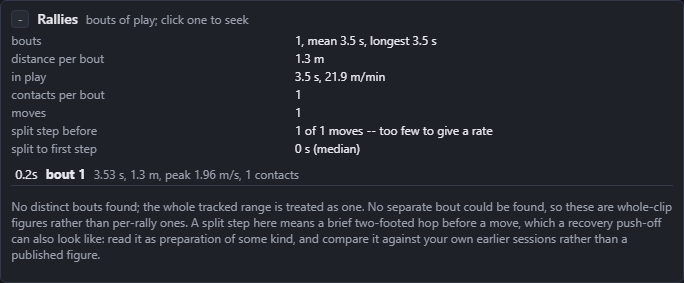
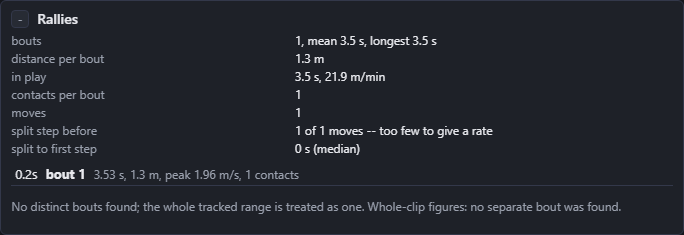
Show the numbers, and put the sentences that explain them behind one switch
The user's verdict after the first hands-on session was that there is far too
much text: every panel carried a subtitle, most carried a paragraph under it,
the Next line ran to two sentences and the review help to two more. They want
the numbers.

Deleting the prose was not available, because a good deal of it is the app
saying what it will not measure, and that is the rule the whole thing rests
on. So the sentences were sorted rather than cut. What a measurement refuses
to say stays on the page always, shortened to one line: "Work-to-rest
withheld: the clip is already cut to the play", "No shot named: a name needs
the shuttle", "Not measured: ...". What merely explains how a number was
reached now carries the class explain, sits on its element's title so a hover
answers one question, and is hidden until the What this means button in the
header turns the lot on. One switch and not one per panel, because a reader
who wants the explanations wants them everywhere.

Eleven panel subtitles, the Match, Rallies, Strokes, Tactics, Formation and
Over time paragraphs and both review help lines went through that sort. The
Next line keeps one clause and hands its reason to the same switch and to the
hover, so it still says why when asked.

The screenshots are rebuilt because the panels really did change.

diff --git a/src/mikiri/server/static/app.js b/src/mikiri/server/static/app.js
@@ -726,6 +726,19 @@ function renderAll() {
   renderSideTabs(); renderNextStep();
 }
 
+// ------------------------------------------------------------ explanations
+
+// One switch for every sentence that explains a number rather than stating
+// it. Off by default: the user asked for the numbers, not the prose. What a
+// measurement refuses to say is not an explanation and never hides.
+function setExplain(on) {
+  document.body.classList.toggle('show-explain', on);
+  const b = $('#explain-btn');
+  b.setAttribute('aria-pressed', on ? 'true' : 'false');
+  b.title = on ? 'Hide the explanations again' : 'Show the sentence under each panel title and each withheld number';
+  try { localStorage.setItem('mikiri.explain', on ? '1' : '0'); } catch (e) { /* private mode */ }
+}
+
 // ---------------------------------------------------------------- folding
 
 function foldedPanels() {
@@ -806,20 +819,24 @@ function nextStep() {
   // The court comes first: with it, one tracking run follows everyone on
   // it, and a second run to add the other player is a whole clip decoded
   // and tracked again.
-  if (!court && !st.has_pose) return { text: 'Calibrate the court first: four clicks on its corners, then one tracking run follows everyone on it. Skip it for a clip that does not show the court.', btn: 'Court calibration', act: openCourtModal };
-  if (!st.has_pose) return { text: 'Set the in and out points, then run tracking; with the court in, tick the other end too.', btn: 'Run tracking', act: openRunModal };
-  if (!court) return { text: 'Calibrate the court, four clicks on its corners, for footwork in metres, rallies and the match figures.', btn: 'Court calibration', act: openCourtModal };
-  if (players.length < 2) return { text: 'Only one player was tracked. Run tracking again with the other end ticked for serves, outcomes and the score.', btn: 'Run tracking', act: openRunModal };
-  if (q && q.n_open) return { text: `${q.n_open} question${q.n_open === 1 ? '' : 's'} the rally chain could not settle ${q.n_open === 1 ? 'is' : 'are'} waiting in Review; a keypress answers each.`, btn: 'Open Review', act: () => showSidePage('match') };
-  if (!st.project_path) return { text: 'Save the project to keep this session; the next clip of the same player is read against it in Over time.', btn: 'Save', act: () => saveProject(false) };
+  if (!court && !st.has_pose) return { text: 'Calibrate the court first.', why: 'Four clicks on its corners, and then one tracking run follows everyone on it. Skip it for a clip that does not show the court.', btn: 'Court calibration', act: openCourtModal };
+  if (!st.has_pose) return { text: 'Set in and out, then run tracking.', why: 'With the court in, tick the other end on the same run.', btn: 'Run tracking', act: openRunModal };
+  if (!court) return { text: 'Calibrate the court.', why: 'Four clicks on its corners, for footwork in metres, rallies and the match figures.', btn: 'Court calibration', act: openCourtModal };
+  if (players.length < 2) return { text: 'Only one player was tracked.', why: 'Run tracking again with the other end ticked, for serves, outcomes and the score.', btn: 'Run tracking', act: openRunModal };
+  if (q && q.n_open) return { text: `${q.n_open} question${q.n_open === 1 ? '' : 's'} waiting in Review.`, why: 'These are the contradictions the rally chain could not settle; a keypress answers each.', btn: 'Open Review', act: () => showSidePage('match') };
+  if (!st.project_path) return { text: 'Save the project to keep this session.', why: 'The next clip of the same player is then read against it in Over time.', btn: 'Save', act: () => saveProject(false) };
   return null;
 }
 
+// One clause on the line and the reason on its hover, so the step reads at a
+// glance and still says why when asked.
 function renderNextStep() {
   const s = nextStep();
   $('#next-step').classList.toggle('hidden', !s);
   if (!s) return;
   $('#next-step-text').textContent = s.text;
+  $('#next-step-text').title = s.why || '';
+  $('#next-step-why').textContent = s.why || '';
   const b = $('#next-step-btn'); b.textContent = s.btn; b.onclick = s.act;
 }
 
@@ -1155,8 +1172,10 @@ function renderStrokes() {
   const named = sv.strokes.filter((x) => x.shot).length;
   const searched = ev.some((e) => !e.startsWith('no shuttle evidence'));
   if (!searched) {
-    $('#strokes-note').textContent = 'Shot names (smash, clear, drop) need the shuttle: Find shuttle looks for it in the frames after each contact. Until then these are honest descriptions, not shot types.';
+    $('#strokes-note').textContent = 'No shot named: a name needs the shuttle. Press Find shuttle.';
+    $('#strokes-explain').textContent = 'Find shuttle looks for it in the frames after each contact. Until it does, these are descriptions of the swing rather than shot types.';
   } else {
+    $('#strokes-explain').textContent = "A name needs the shuttle's own path out of the contact, and a side-on view to read it from.";
     const noLaunch = ev.filter((e) => e.startsWith('no shuttle launch')).length;
     const weak = ev.filter((e) => e.startsWith('shuttle launch too weak'));
     const best = Math.max(0, ...weak.map((e) => Number((e.match(/confidence ([0-9.]+)/) || [])[1] || 0)));
@@ -1225,10 +1244,12 @@ function renderRallies() {
 
   const notes = [];
   if (b.note) notes.push(b.note.charAt(0).toUpperCase() + b.note.slice(1) + '.');
-  if (b.not_segmented) notes.push('No separate bout could be found, so these are whole-clip figures rather than per-rally ones.');
-  else if (b.trimmed_to_play) notes.push('The clip is already cut to the play, so work-to-rest would measure the editing rather than you, and is not reported.');
-  if (sp && sp.n_splits) notes.push('A split step here means a brief two-footed hop before a move, which a recovery push-off can also look like: read it as preparation of some kind, and compare it against your own earlier sessions rather than a published figure.');
+  if (b.not_segmented) notes.push('Whole-clip figures: no separate bout was found.');
+  else if (b.trimmed_to_play) notes.push('Work-to-rest withheld: the clip is already cut to the play.');
   $('#rally-note').textContent = notes.join(' ');
+  $('#rally-explain').textContent = sp && sp.n_splits
+    ? 'A split step here is a brief two-footed hop before a move, which a recovery push-off also looks like: read it as preparation of some kind, and against your own earlier sessions rather than a published figure.'
+    : '';
 }
 
 function renderMatch() {
@@ -1272,10 +1293,10 @@ function renderMatch() {
 
   const notes = [];
   notes.push(m.headline ? m.headline.charAt(0).toUpperCase() + m.headline.slice(1) + '.' : `No result is stated: ${m.headline_withheld}.`);
-  notes.push('Who won a rally is read off who serves next; the serve is the first detected contact of a bout. Confirmed means you answered it, inferred means the rules of the game derived it from confirmed facts, auto means unreviewed detection.');
-  if (m.n_issues) notes.push(`${m.n_issues} question${m.n_issues === 1 ? '' : 's'} the chain could not settle, listed below and asked one at a time in the Review panel.`);
+  if (m.n_issues) notes.push(`${m.n_issues} question${m.n_issues === 1 ? '' : 's'} open in Review.`);
   if (m.note) notes.push(m.note.charAt(0).toUpperCase() + m.note.slice(1) + '.');
   $('#match-note').textContent = notes.join(' ');
+  $('#match-explain').textContent = 'Who won a rally is read off who serves next; the serve is the first detected contact of a bout. Confirmed means you answered it, inferred means the rules of the game derived it from confirmed facts, auto means unreviewed detection.';
 }
 
 // The review queue: one question at a time, the video already at its frame,
@@ -1314,7 +1335,8 @@ function renderReview() {
   $('#review-options').innerHTML = item.options.map((o, i) =>
     `<button class="btn small" data-i="${i}"><b>${i + 1}</b> ${o.label}</button>`).join(' ')
     + ' <button class="btn small" data-i="d"><b>d</b> leave it</button>';
-  $('#review-help').innerHTML = 'Press the number to answer, <b>d</b> to leave this one, <b>u</b> to take the last answer back. The video is at the frame in question; for "at the frame I am on", scrub to the hit first.';
+  $('#review-help').innerHTML = '<b>1-9</b> answer, <b>d</b> leave, <b>u</b> undo.';
+  $('#review-explain').textContent = 'The video is already at the frame in question; for "at the frame I am on", scrub to the hit first.';
   for (const b of $('#review-options').querySelectorAll('button')) {
     b.addEventListener('click', () => answerReview(b.dataset.i === 'd' ? 'd' : Number(b.dataset.i)));
   }
@@ -1358,9 +1380,10 @@ function renderTactics() {
   }
   $('#tactics-sides').innerHTML = blocks.join('');
   const notes = [];
-  if (!t.score_is_absolute) notes.push('Points are those won in this clip; the score at its start is not known.');
+  if (!t.score_is_absolute) notes.push('Points won in this clip; the score at its start is not known.');
   notes.push('Not measured: ' + (t.not_measured || []).join('; ') + '.');
   $('#tactics-note').textContent = notes.join(' ');
+  $('#tactics-explain').textContent = 'Every figure carries how it was known: confirmed by you, inferred through the rules of the game, or auto and unreviewed. A share is withheld below the count it would need.';
 }
 
 // Formation, for each side with two tracked partners: the shape shares,
@@ -1394,7 +1417,8 @@ function renderDoubles() {
     blocks.push(`<div class="panel-title">${label}</div><div class="footwork">${lines.join('')}</div>`);
   }
   $('#doubles-sides').innerHTML = blocks.join('');
-  $('#doubles-note').textContent = 'After a lift the pair should be side-by-side, after a downward shot front-and-back; the direction comes from the shot name where there is one and from an underarm contact otherwise. Not measured: ' + (d.not_measured || []).join('; ') + '.';
+  $('#doubles-note').textContent = 'Not measured: ' + (d.not_measured || []).join('; ') + '.';
+  $('#doubles-explain').textContent = 'After a lift the pair should be side-by-side, after a downward shot front-and-back; the direction comes from the shot name where there is one and from an underarm contact otherwise.';
 }
 
 // Over time: this clip against the same player's kept sessions. A metric
@@ -1445,6 +1469,7 @@ function renderTrends() {
   $('#trends-metrics').innerHTML = rows.join('');
   const notes = (t.notes || []).concat(c && c.n_sessions >= 2 ? (c.notes || []).filter((n) => !(t.notes || []).includes(n)) : []);
   $('#trends-note').textContent = notes.map((n) => n.charAt(0).toUpperCase() + n.slice(1) + '.').join(' ');
+  $('#trends-explain').textContent = 'Each session is one saved project, grouped by the player label; a figure is compared only where both sessions measured it.';
 }
 
 // The tagger: the labelling pass the per-player classifier trains on. It walks
@@ -1467,11 +1492,12 @@ function renderTagging(tg) {
   if (S.tagSeekKey !== key) { S.tagSeekKey = key; seek(next.frame); }
   const guess = next.shot ? ` The app would call it a ${next.shot} (${next.how}, ${Math.round(100 * next.confidence)}%).` : '';
   $('#review-question').textContent = `What shot did the ${next.side} side play at ${(next.frame / fps()).toFixed(1)} s? It reads as ${next.descriptor}.${guess}`;
-  $('#review-detail').textContent = 'Your labels train a classifier for this player alone. It names a shot only when your labels for that shot separate from every other shot you have labelled, and it says how well.';
+  $('#review-detail').textContent = '';
+  $('#review-explain').textContent = 'Your labels train a classifier for this player alone. It names a shot only when your labels for that shot separate from every other shot you have labelled, and it says how well.';
   $('#review-options').innerHTML = tg.shots.map((sh, i) =>
     `<button class="btn small" data-i="${i}"><b>${i + 1}</b> ${sh}</button>`).join(' ')
     + ' <button class="btn small" data-i="s"><b>s</b> skip</button>';
-  $('#review-help').innerHTML = 'Press the number for the shot, <b>s</b> to skip this contact, <b>t</b> to go back to the questions.';
+  $('#review-help').innerHTML = '<b>1-9</b> name the shot, <b>s</b> skip, <b>t</b> back to the questions.';
   for (const b of $('#review-options').querySelectorAll('button')) {
     b.addEventListener('click', () => tagShot(b.dataset.i === 's' ? 's' : Number(b.dataset.i)));
   }
@@ -1776,6 +1802,10 @@ function bindUI() {
   $('#court-btn').addEventListener('click', openCourtModal);
   $('#court-setup-btn').addEventListener('click', openCourtModal);
   $('#keys-btn').addEventListener('click', () => showModal('#modal-keys'));
+  $('#explain-btn').addEventListener('click', () => setExplain(!document.body.classList.contains('show-explain')));
+  let explainOn = false;
+  try { explainOn = localStorage.getItem('mikiri.explain') === '1'; } catch (e) { /* private mode */ }
+  setExplain(explainOn);
   $('#next-step-dismiss').addEventListener('click', () => { S.hideStepFor = S.pid; renderNextStep(); });
   $$('.side-tab').forEach((t) => t.addEventListener('click', () => showSidePage(t.dataset.page)));
   // A video dropped anywhere on the page opens the way an upload does.

diff --git a/src/mikiri/server/static/index.html b/src/mikiri/server/static/index.html
@@ -16,6 +16,7 @@
   <button id="save-btn" class="btn" disabled>Save</button>
   <button id="export-btn" class="btn" disabled>Export pack</button>
   <button id="compare-btn" class="btn" disabled>Compare</button>
+  <button id="explain-btn" class="btn" title="Show the sentence under each panel title and each withheld number">What this means</button>
   <button id="keys-btn" class="btn" title="Keyboard shortcuts (?)">Keys</button>
   <button id="settings-btn" class="btn">Settings</button>
 </header>
@@ -94,6 +95,7 @@
       <div id="next-step" class="next-step hidden">
         <span class="next-label">Next</span>
         <span id="next-step-text"></span>
+        <span class="muted small-text explain" id="next-step-why"></span>
         <button class="btn small primary" id="next-step-btn"></button>
         <button class="btn small" id="next-step-dismiss" title="Hide this for this project">Hide</button>
       </div>
@@ -132,7 +134,7 @@
       </div>
       <div class="tab-page" data-page="movement">
       <div class="panel">
-        <div class="panel-title">Events <span class="muted small-text">(mark on the current frame)</span>
+        <div class="panel-title" title="(mark on the current frame)">Events <span class="muted small-text explain">(mark on the current frame)</span>
           <span class="spacer"></span>
           <label class="small-text">Movement <select id="movement"></select></label>
         </div>
@@ -149,26 +151,27 @@
         <div id="metrics" class="metrics"></div>
       </div>
       <div class="panel" id="assessment-panel">
-        <div class="panel-title">Assessment <span class="muted small-text" id="assessment-sub">against the movement's reference bands</span></div>
+        <div class="panel-title" title="against the movement's reference bands">Assessment <span class="muted small-text explain" id="assessment-sub">against the movement's reference bands</span></div>
         <table id="assessment-table" class="assessment"></table>
         <div id="assessment-cues" class="muted small-text"></div>
       </div>
       <div id="camera-view" class="view-badge"></div>
       <div class="panel hidden" id="court-panel">
-        <div class="panel-title">Court <span class="muted small-text" id="court-sub">footwork in court metres</span></div>
+        <div class="panel-title" title="footwork in court metres">Court <span class="muted small-text explain" id="court-sub">footwork in court metres</span></div>
         <div class="court-row">
           <canvas id="court-canvas"></canvas>
           <div id="footwork-metrics" class="footwork"></div>
         </div>
       </div>
       <div class="panel hidden" id="rally-panel">
-        <div class="panel-title">Rallies <span class="muted small-text" id="rally-sub">bouts of play; click one to seek</span></div>
+        <div class="panel-title" title="bouts of play; click one to seek">Rallies <span class="muted small-text explain" id="rally-sub">bouts of play; click one to seek</span></div>
         <div id="rally-summary" class="footwork"></div>
         <ul id="rally-list" class="events-list"></ul>
         <p class="muted small-text" id="rally-note"></p>
+        <p class="muted small-text explain" id="rally-explain"></p>
       </div>
       <div class="panel hidden" id="coaching-panel">
-        <div class="panel-title">Coaching <span class="muted small-text">what the numbers suggest working on</span>
+        <div class="panel-title" title="what the numbers suggest working on">Coaching <span class="muted small-text explain">what the numbers suggest working on</span>
           <span class="spacer"></span>
           <label class="small-text">Level <select id="coach-level">
             <option value="beginner">beginner</option>
@@ -180,7 +183,7 @@
         <div id="coaching-list"></div>
       </div>
       <div class="panel">
-        <div class="panel-title">Angles <span class="muted small-text">image-plane, degrees; click a plot to seek</span>
+        <div class="panel-title" title="image-plane, degrees; click a plot to seek">Angles <span class="muted small-text explain">image-plane, degrees; click a plot to seek</span>
           <span class="spacer"></span>
           <button class="btn small" id="calib-btn">Scale calibration</button>
           <button class="btn small" id="court-btn">Court calibration</button>
@@ -196,47 +199,53 @@
         <p id="review-question"></p>
         <p class="muted small-text" id="review-detail"></p>
         <div id="review-options"></div>
-        <p class="muted small-text" id="review-help">Press the number to answer, or <b>d</b> to leave this one. The video is at the frame in question; for "at the frame I am on", scrub to the hit first.</p>
+        <p class="muted small-text" id="review-help"></p>
+        <p class="muted small-text explain" id="review-explain"></p>
         <div id="classifier-report" class="muted small-text"></div>
       </div>
       <div class="panel hidden" id="match-panel">
-        <div class="panel-title">Match <span class="muted small-text" id="match-sub">serves, outcomes and score from the rally chain; click one to seek</span></div>
+        <div class="panel-title" title="serves, outcomes and score from the rally chain; click one to seek">Match <span class="muted small-text explain" id="match-sub">serves, outcomes and score from the rally chain; click one to seek</span></div>
         <div id="match-summary" class="footwork"></div>
         <ul id="match-list" class="events-list"></ul>
         <p class="muted small-text" id="match-note"></p>
+        <p class="muted small-text explain" id="match-explain"></p>
         <ul id="match-issues" class="events-list"></ul>
       </div>
       <div class="panel hidden" id="strokes-panel">
-        <div class="panel-title">Strokes <span class="muted small-text" id="strokes-sub">detected contacts; click one to seek</span>
+        <div class="panel-title" title="detected contacts; click one to seek">Strokes <span class="muted small-text explain" id="strokes-sub">detected contacts; click one to seek</span>
           <span class="spacer"></span>
           <button class="btn small" id="shuttle-btn" title="Look for the shuttle just after each contact, which is what lets a shot be named">Find shuttle</button>
         </div>
         <div id="strokes-summary" class="footwork"></div>
         <ul id="strokes-list" class="events-list"></ul>
         <p class="muted small-text" id="strokes-note"></p>
+        <p class="muted small-text explain" id="strokes-explain"></p>
       </div>
       <div class="panel hidden" id="tactics-panel">
-        <div class="panel-title">Tactics <span class="muted small-text">what each side played and whether it worked; every figure carries how it was known</span></div>
+        <div class="panel-title" title="what each side played and whether it worked; every figure carries how it was known">Tactics <span class="muted small-text explain">what each side played and whether it worked; every figure carries how it was known</span></div>
         <div id="tactics-rallies" class="footwork"></div>
         <div id="tactics-sides"></div>
         <p class="muted small-text" id="tactics-note"></p>
+        <p class="muted small-text explain" id="tactics-explain"></p>
       </div>
       <div class="panel hidden" id="doubles-panel">
-        <div class="panel-title">Formation <span class="muted small-text">the shape each pair holds, and whether it fits the shot the pair just played</span></div>
+        <div class="panel-title" title="the shape each pair holds, and whether it fits the shot the pair just played">Formation <span class="muted small-text explain">the shape each pair holds, and whether it fits the shot the pair just played</span></div>
         <div id="doubles-sides"></div>
         <p class="muted small-text" id="doubles-note"></p>
+        <p class="muted small-text explain" id="doubles-explain"></p>
       </div>
         <p class="muted small-text tab-empty" id="match-empty">Nothing here yet. Contacts appear once the clip is tracked and the court calibrated; serves, outcomes and the score need the player at the other end tracked too (Run tracking, tick the other end).</p>
       </div>
       <div class="tab-page hidden" data-page="time">
       <div class="panel hidden" id="trends-panel">
-        <div class="panel-title">Over time <span class="muted small-text">against the same player's kept sessions; saving the project keeps a session</span>
+        <div class="panel-title" title="against the same player's kept sessions; saving the project keeps a session">Over time <span class="muted small-text explain">against the same player's kept sessions; saving the project keeps a session</span>
           <span class="spacer"></span>
           <label class="small-text">Player <input id="player" type="text" placeholder="you" size="12"></label>
         </div>
         <div id="trends-sessions" class="footwork"></div>
         <div id="trends-metrics" class="footwork"></div>
         <p class="muted small-text" id="trends-note"></p>
+        <p class="muted small-text explain" id="trends-explain"></p>
       </div>
         <p class="muted small-text tab-empty" id="time-empty">Nothing here yet. Track the clip and save the project: a saved session is kept, and the next clip of the same player is read against it here.</p>
       </div>

diff --git a/src/mikiri/server/static/style.css b/src/mikiri/server/static/style.css
@@ -88,6 +88,16 @@ canvas#video-canvas, canvas#compare-canvas { display: block; max-width: 100%; ma
 .panel-title { font-weight: 600; margin-bottom: 4px; display: flex; align-items: center; gap: 8px; flex-wrap: wrap; }
 /* A long subtitle drops to its own line rather than breaking the title in two. */
 .panel-title > .small-text { flex: 1 1 260px; min-width: 0; font-weight: 400; }
+
+/* The panels are for the numbers. Every sentence that explains one rather
+   than stating it is marked .explain: hidden until the reader asks for it
+   with the one toggle in the header, and carried on the element's title so
+   a hover answers a single question without turning the rest back on. What
+   a measurement refuses to say is never marked, and stays on the page. */
+.explain { display: none; }
+body.show-explain .explain { display: block; }
+body.show-explain span.explain { display: inline; }
+#explain-btn[aria-pressed="true"] { border-color: var(--accent); }
 .preset-row { display: flex; gap: 6px; flex-wrap: wrap; margin: 4px 0; }
 .preset-row .btn { text-transform: capitalize; }
 .events-list { list-style: none; margin: 6px 0; padding: 0; max-height: 160px; overflow-y: auto; }
@@ -186,7 +196,11 @@ kbd { background: var(--bg3); border: 1px solid var(--border); border-radius: 3p
 /* The one line that says what to do next, under the transport. */
 .next-step { display: flex; align-items: center; gap: 8px; padding: 6px 10px; background: #1c2536; border: 1px solid var(--accent2); border-radius: 6px; font-size: 13px; }
 .next-step .next-label { color: var(--accent); font-weight: 600; text-transform: uppercase; font-size: 11px; letter-spacing: 0.04em; }
-.next-step #next-step-text { flex: 1; }
+.next-step #next-step-text { flex: 0 1 auto; }
+/* The reason takes the rest of the row when it is shown, and nothing when it
+   is not, so the step reads the same width either way. */
+.next-step #next-step-why { flex: 1 1 auto; min-width: 0; }
+body:not(.show-explain) .next-step #next-step-text { flex: 1 1 auto; }
 
 .keys { border-collapse: collapse; font-size: 13px; }
 .keys td { padding: 3px 12px 3px 0; vertical-align: top; }

diff --git a/CLAUDE.md b/CLAUDE.md
@@ -258,12 +258,16 @@ in their words as far as possible; each is a real defect, not a preference:
   and the frame-cache fill check per frame already. Measure the time from
   Cancel to the job reading cancelled on the broadcast clip before calling
   this done.
-* **Far too much text.** Every panel carries a subtitle, most carry a note,
-  the Next line is two sentences, the Match panel ends in a paragraph, the
-  strokes and tactics notes are paragraphs, the review help is two
-  sentences. The user wants the numbers, not the explanations; move the
-  explanations behind hover titles or a single "what this means" toggle and
-  leave one short line where a withholding has to be stated.
+* **Far too much text.** Done. Every sentence in a panel was sorted into
+  one of two kinds: what a measurement refuses to say, which stays on the
+  page always, and what merely explains how a number was reached, which
+  carries the class `explain`, sits on the element's `title` for a hover,
+  and is hidden until the one "What this means" button in the header turns
+  the lot on. Eleven panel subtitles, the Match, Formation, Rallies,
+  Strokes, Tactics and Over time paragraphs, both review help lines and
+  every line of the Next step went through that sort. When adding a
+  sentence to a panel, decide which kind it is; a withholding that hides is
+  the regression this was built to avoid.
 * **Choose everyone before one run.** A run tracks the subject alone or the
   subject plus the other end (or both pairs), and the pose cache is keyed by
   the player count, so a subject-only run followed by a both-players run

diff --git a/DECISIONS.md b/DECISIONS.md
@@ -243,6 +243,19 @@ Three consequences that are easy to get wrong later:
   everything at a reduced rate so identity survives, and the warm-up -- useless
   for tactics -- is the best training data in the clip for a per-player
   classifier, being repetitive, unpressured and undisguised.
+* **A sentence that explains a number is hidden by default; a sentence that
+  withholds one is not.** The panels had grown a subtitle each, a paragraph
+  under most and a two-sentence help line, and the user's verdict after the
+  first hands-on session was "far too much text -- I want the numbers".
+  Deleting the prose was not an option, because much of it is the app saying
+  what it refuses to measure, which is the rule the whole thing is built on.
+  So the sentences were sorted rather than cut: what a measurement will not
+  say stays on the page, always, and what merely explains how a number was
+  reached moves behind one switch in the header and onto the element's own
+  `title`, so a hover answers one question without turning the rest back on.
+  One switch and not a per-panel toggle, because a reader who wants the
+  explanations wants them everywhere and a reader who does not wants them
+  nowhere.
 
 It stays local, offline and free. The comparable commercial product meters
 automatic tracking by the minute and sells a manual tagger as the cheaper path,
